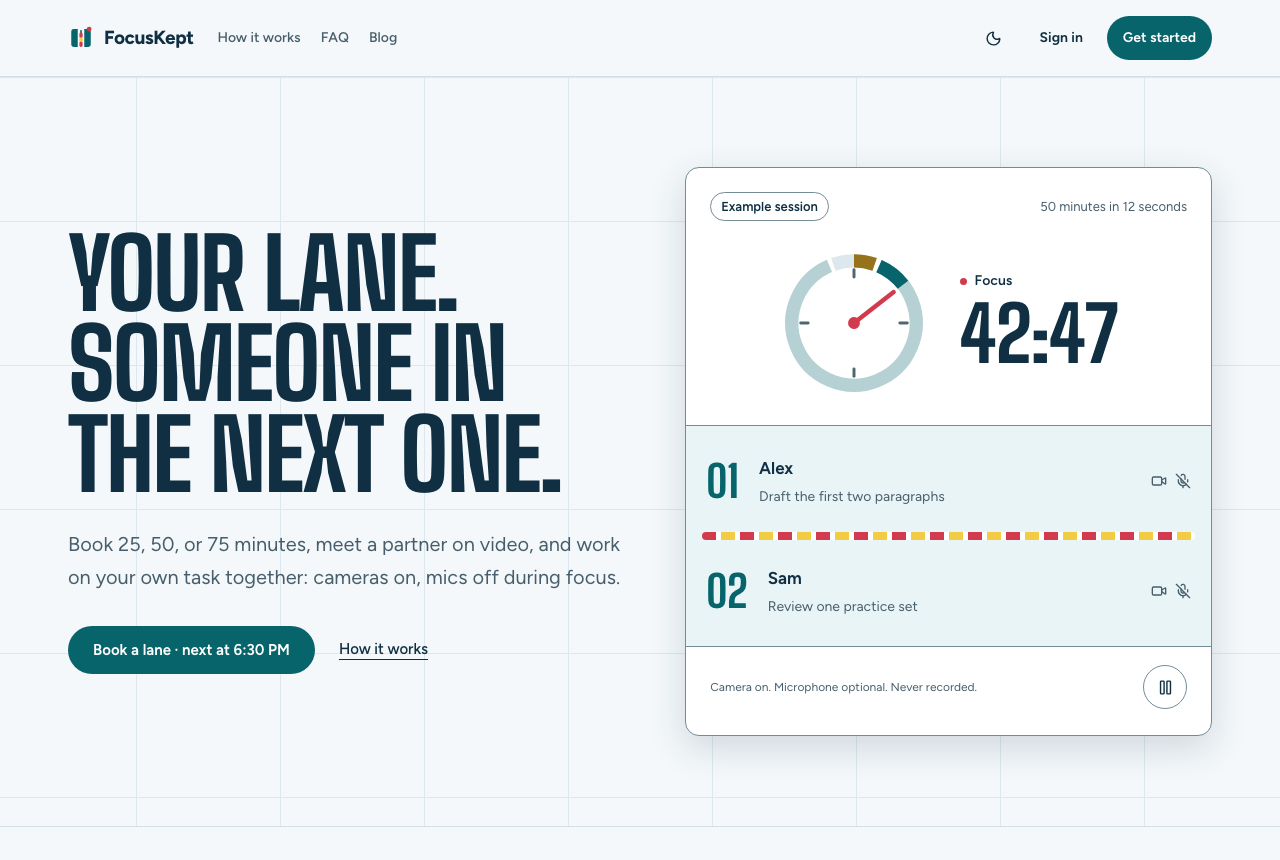
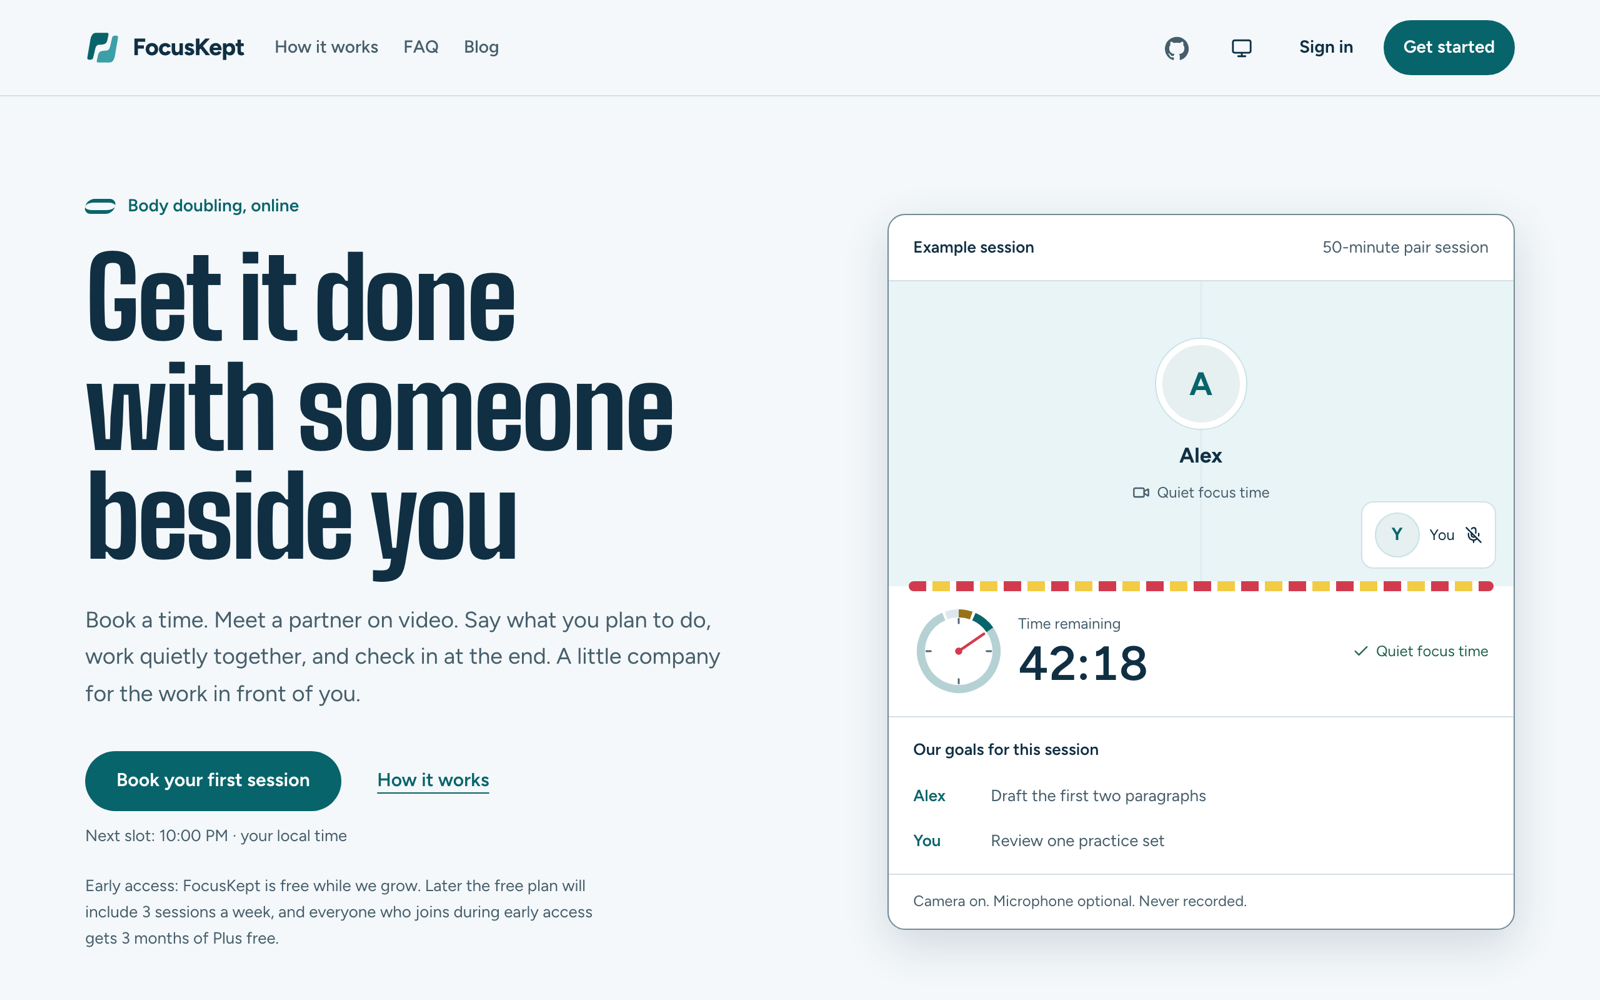
Shorten the README, refresh screenshots and move the long guides into docs

diff --git a/README.md b/README.md
@@ -1,114 +1,49 @@
 <picture>
   <source media="(prefers-color-scheme: dark)" srcset="brand/exports/repository/readme-banner-dark.png">
-  <img alt="FocusKept: quiet company, focus kept" src="brand/exports/repository/readme-banner-light.png" width="800">
+  <img alt="FocusKept" src="brand/exports/repository/readme-banner-light.png" width="800">
 </picture>
 
 # FocusKept
 
-FocusKept is an open-source virtual coworking and body doubling app. Book a time, get paired with a partner, say your goal, work on camera, and report back at the end. Sessions last 25, 50, or 75 minutes. Video is never recorded. The product name comes from configuration and defaults to FocusKept.
+**Get it done with someone beside you.**
 
-Use the hosted version at [focuskept.com](https://focuskept.com) or run your own copy with Docker Compose.
+FocusKept is a body doubling app. Book a time, meet a partner on video, say what you'll work on, then focus quietly together. Sessions are 25, 50 or 75 minutes, and video is never recorded.
 
-## Features
+[**Try it at focuskept.com →**](https://focuskept.com) · free during early access
 
-- Scheduled partner matching and hosted group sessions.
-- Session goals, outcomes, reminders, and personal booking links.
-- Favorites, partner preferences, blocks, and reports.
-- Email/password accounts and optional Google sign-in.
-- Optional Polar billing, with billing disabled for self-hosting if desired.
-- Configurable branding, signup access, video provider, and localization.
+![FocusKept landing page](docs/screenshots/home.png)
 
-## Screenshots
+| Your dashboard                               | Booking a session                                  |
+| -------------------------------------------- | -------------------------------------------------- |
+| ![Dashboard](docs/screenshots/dashboard.png) | ![Booking calendar](docs/screenshots/calendar.png) |
 
-| Landing page                               | Booking calendar                                          | Session room                                          |
-| ------------------------------------------ | --------------------------------------------------------- | ----------------------------------------------------- |
-| ![Landing page](docs/screenshots/home.png) | ![Weekly booking calendar](docs/screenshots/calendar.png) | ![Session room with goals](docs/screenshots/room.png) |
+## What it does
 
-The room screenshot uses the browser's test camera.
+- **Book or match now.** Pick a time, or get paired with whoever is free right now.
+- **A partner, not a feed.** One person on camera, one shared goal, a quiet timer.
+- **Community.** Share what you're working on and cheer each other on.
+- **Yours to run.** Open source, self-hostable, in five languages.
 
-## Hosted version
+## Run it yourself
 
-[focuskept.com](https://focuskept.com) runs the latest `main`. It is free during early access.
-
-## Self-hosting quick start
-
-Use Node 24, pnpm 11, and Docker Compose. Setup generates the environment files and project-specific credentials:
+You need Node 24, pnpm and Docker.
 
 ```sh
 pnpm install
-pnpm setup -- --name "My Coworking" --slug my-coworking --domain coworking.example.com --repository yourname/yourrepo
-docker compose --env-file .env.local up
-```
-
-In another terminal, run `pnpm local:migrate` to apply migrations. See [SELF_HOSTING.md](SELF_HOSTING.md) for deployment and video configuration.
-
-## Running in production with Docker Compose
-
-The app and the background worker run from one image next to PostgreSQL. `deploy/compose.production.yaml` defines all three services and expects an HTTPS reverse proxy (the examples use Caddy) on an external Docker network named `proxy`.
-
-```sh
-# On your machine: generate the deployment bundle and build an image for the server's architecture
-pnpm setup -- --name "My Coworking" --slug my-coworking --domain coworking.example.com --repository yourname/yourrepo
-docker build --platform linux/arm64 -t local/my-coworking:$(git rev-parse HEAD) .
-
-# On the server, inside the copied deploy directory
-bash configure-runtime.sh https://coworking.example.com local/my-coworking:<commit>   # fills runtime.env once
-docker compose --env-file .env -f compose.production.yaml run --rm --no-deps app node scripts/migrate.cjs
-bash deploy.sh local/my-coworking:<commit>                                           # health-checked, rolls back on failure
-```
-
-You need a domain, a [Resend](https://resend.com) account with a verified sender for sign-in emails, and a video provider (Cloudflare Realtime or self-hosted LiveKit). Billing is optional: with `BILLING_ENABLED=false` everyone gets unlimited sessions. [SELF_HOSTING.md](SELF_HOSTING.md) and [DEPLOY.md](DEPLOY.md) cover every setting, backups and video setup.
-
-## Development
-
-After installation and setup:
-
-```sh
+pnpm setup          # asks a few questions
 pnpm local:up
 pnpm local:migrate
-pnpm worker
 ```
 
-The worker runs in its own terminal. `local:up` starts the app and PostgreSQL in Docker. To run Next.js on the host, stop the Docker app with `docker compose --env-file .env.local stop app`, then run `pnpm dev` in another terminal.
+Then open http://localhost:3000. For a real server, see [docs/SELF_HOSTING.md](docs/SELF_HOSTING.md).
 
-Run checks and tests with:
+## Built with
 
-```sh
-pnpm spdx:check
-pnpm typecheck
-pnpm lint
-pnpm test
-pnpm local:test-db
-pnpm test:integration
-pnpm exec playwright install chromium
-pnpm test:e2e
-```
+Next.js · PostgreSQL · Drizzle · Better Auth · Cloudflare Realtime
 
-Integration and browser tests use an isolated database whose name ends in `_test`. Stop the app using port 3000 before browser tests; Playwright starts its own server.
+## About
 
-## Tech stack
+Made by [Murad Gojayev](https://github.com/gojayevmurad).
+Ideas and bug reports are welcome in [issues](https://github.com/gojayevmurad/focuskept/issues). See [CONTRIBUTING.md](CONTRIBUTING.md) before opening a pull request.
 
-- Next.js 16, React, and TypeScript.
-- PostgreSQL and Drizzle ORM.
-- Better Auth and Polar.
-- pg-boss background worker.
-- Cloudflare Realtime or LiveKit for video.
-- next-intl for localization.
-
-## Branding
-
-Self-hosted deployments set their own name and logo at runtime with `APP_NAME`, `LOGO_URL`, and `SUPPORT_EMAIL`, and their colors in `src/config/brand.css`; see [SELF_HOSTING.md](SELF_HOSTING.md#branding). The same image works for any identity: with a custom name, emails and share images show that name as text instead of the FocusKept wordmark.
-
-The FocusKept identity (**Side by Side**) lives in [`brand/`](brand/README.md): logo and icon downloads (SVG, PNG, PDF), social and repository images, tokens, and the [usage guide](docs/brand/usage.md). `pnpm brand:generate` rebuilds every asset from one geometry and token source, and `pnpm brand:check` verifies them. The artwork is covered by this repository's license; Figtree and Big Shoulders are separate font software under the SIL Open Font License 1.1 ([notices](brand/fonts/README.md)).
-
-## Contributing
-
-See [CONTRIBUTING.md](CONTRIBUTING.md) for setup, checks, and pull requests.
-
-## Security
-
-Please report vulnerabilities privately as described in [SECURITY.md](SECURITY.md).
-
-## License
-
-FocusKept is licensed under [AGPL-3.0-only](LICENSE). You may use, change and host it. If you run a modified version as a service for other people, you must offer them the source code of your version under the same license.
+Licensed under [AGPL-3.0](LICENSE).
